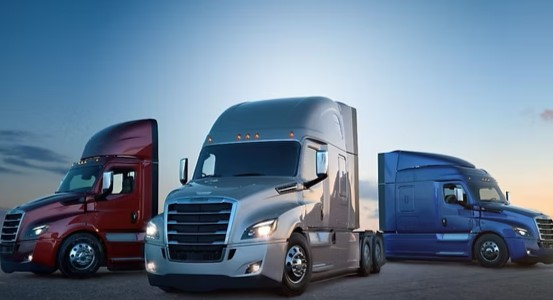
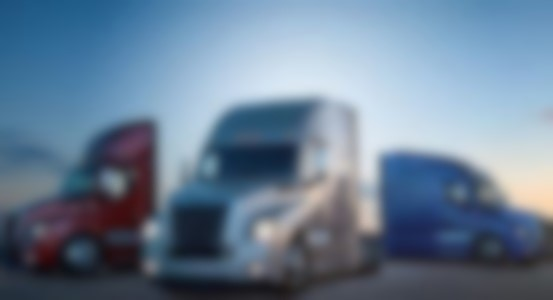
Adjustments were made to the backgrounds and the menu was added, with offcanvas for smaller screens.

Changed region(s): [[0.0, 0.3, 1.0, 1.0]]

diff --git a/index.html b/index.html
@@ -12,14 +12,49 @@
         <div class="top-background-container">
             <div class="menu-services-container">
                 <div class="menu-container">
-
-                </div>
-                <div class="services-title"></div>
-                <div class="services-container">
-
+                    <nav class="navbar navbar-expand-lg bg-body-tertiary">
+                        <div class="container-fluid">
+                          <button class="navbar-toggler" type="button" data-bs-toggle="offcanvas" data-bs-target="#offcanvasNavbar" aria-controls="offcanvasNavbar">
+                            <svg xmlns="http://www.w3.org/2000/svg" width="30" height="50" viewBox="0 0 24 24">
+                              <g fill="none" stroke="#fff" stroke-dasharray="16" stroke-dashoffset="16" stroke-linecap="round" stroke-linejoin="round" stroke-width="4">
+                                <path d="M5 5h14">
+                                  <animate fill="freeze" attributeName="stroke-dashoffset" dur="0.3s" values="16;0" />
+                                </path>
+                                <path d="M5 12h14">
+                                  <animate fill="freeze" attributeName="stroke-dashoffset" begin="0.3s" dur="0.3s" values="16;0" />
+                                </path>
+                                <path d="M5 19h14">
+                                  <animate fill="freeze" attributeName="stroke-dashoffset" begin="0.6s" dur="0.3s" values="16;0" />
+                                </path>
+                              </g>
+                            </svg>
+                          </button>
+                          <div class="collapse navbar-collapse justify-content-end" id="navbarNavAltMarkup">
+                            <div class="navbar-nav">
+                              <a class="nav-link active" aria-current="page" href="#">Contacto</a>
+                              <a class="nav-link" href="#">Nosotros</a>
+                              <a class="nav-link" href="#">Conductores</a>
+                            </div>
+                          </div>
+                          <div class="offcanvas offcanvas-end" tabindex="-1" id="offcanvasNavbar" aria-labelledby="offcanvasNavbarLabel">
+                            <div class="offcanvas-header">
+                              <h5 class="offcanvas-title" id="offcanvasNavbarLabel">Menú</h5>
+                              <button type="button" class="btn-close" data-bs-dismiss="offcanvas" aria-label="Close"></button>
+                            </div>
+                            <div class="offcanvas-body">
+                              <div class="navbar-nav flex-column">
+                                <a class="nav-link active" aria-current="page" href="#">Contacto</a>
+                                <a class="nav-link" href="#">Nosotros</a>
+                                <a class="nav-link" href="#">Conductores</a>
+                              </div>
+                            </div>
+                          </div>
+                        </div>
+                      </nav>                     
                 </div>
             </div>
         </div>
     </div>
+    <script src="scripts/js/bootstrap.min.js"></script>
 </body>
 </html>

diff --git a/styles/style.css b/styles/style.css
@@ -1,3 +1,6 @@
+
+/*top background styles*/
+
 .top-background-container{
     background-image: url('images/background-blur.jpg');
     background-size: cover;
@@ -5,10 +8,79 @@
     background-position: center;
     width: 100%;
     height: 100vh;
-    filter: blur(10px);
+    /* filter: blur(10px); */
     padding: 0;
     margin: 0;
+    align-content: center;
 }
+
+/*all container background color*/
 .container-all{
     background-color: rgb(76, 83, 110);
+}
+
+/*styles for the menu and services container*/
+.menu-services-container{
+    background-image: url('images/background-green-gradient.png');
+    width: 91.5%;
+    height: 89%;
+    background-repeat: no-repeat;
+    background-size: cover;
+    background-position: bottom;
+    margin:  0px auto;
+    border-radius: 25px;
+    box-shadow: 0px 0px 30px #14141479;}
+
+/*navbar styles*/
+.nav-link{
+    color: #fff;
+    font-size: 1.15em;
+    font-weight: 400;
+    margin-right: 10px;
+}
+
+.nav-link:hover{
+    color: rgb(9, 132, 60);
+}
+
+.menu-container{
+    width: 95%;
+    padding-top: 55px;
+}
+
+.offcanvas-end {
+    background-color: rgb(62, 128, 76);
+    color: white;
+    padding: 20px;
+}
+
+.navbar-nav .nav-link {
+    color: #fff !important;
+    transition: background-color 0.3s ease-in-out;
+}
+
+.offcanvas .navbar-nav .nav-link {
+    background-color: rgba(255, 255, 255, 0.1);
+    margin-bottom: 15px;
+    border-radius: 5px;
+    padding: 10px 20px;
+}
+
+.offcanvas .navbar-nav .nav-link:hover {
+    background-color: rgba(255, 255, 255, 0.2);
+}
+
+.offcanvas-header {
+    background-color: rgb(62, 128, 76);
+    border-bottom: 1px solid rgba(255, 255, 255, 0.1);
+}
+
+.offcanvas-title {
+    color: white;
+}
+
+.offcanvas-body {
+    display: flex;
+    flex-direction: column;
+    align-items: flex-start;
 }
